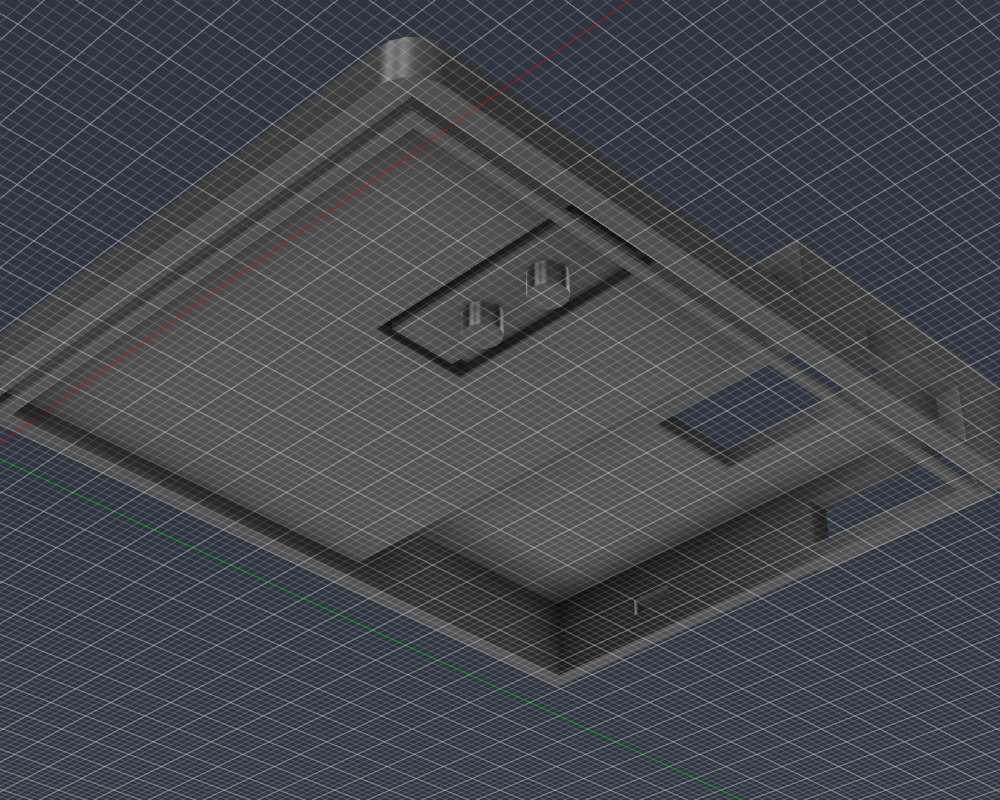
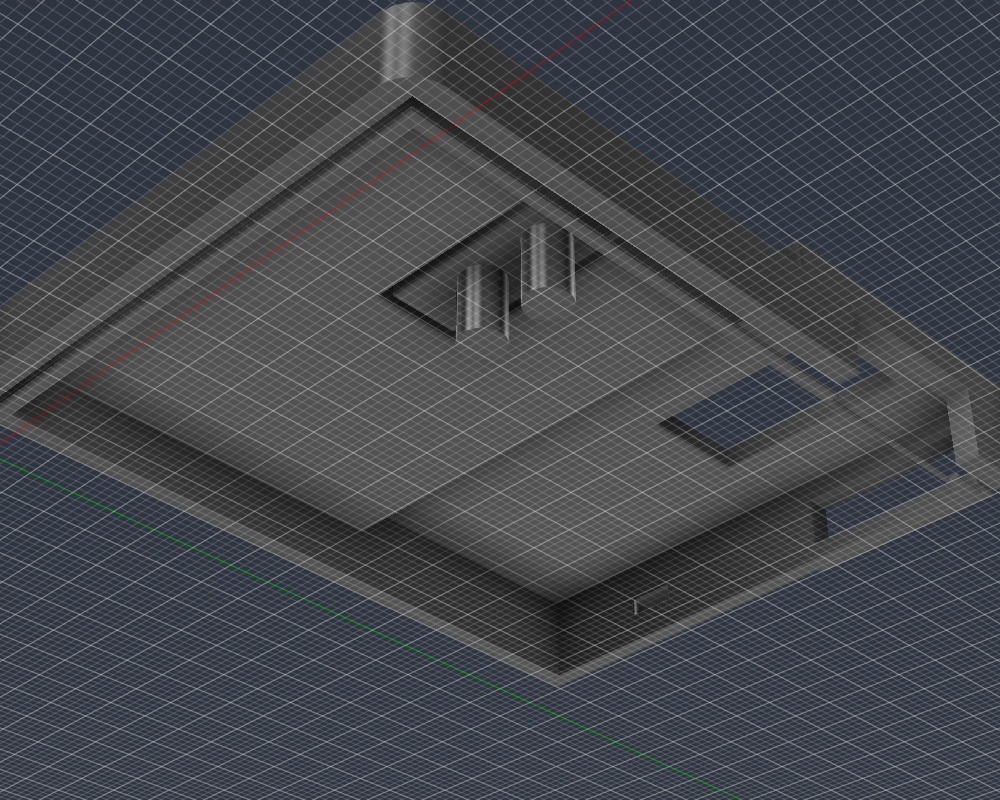
feat(fusion): 外壳完成 —— 间隙检查通过、两个 STL 导出、渲染出图
# 按实测修正的真实碰撞

从 11.7MB STEP 里按 XY 分格取 Z 极值，量出背面元件最高的是 470uF（Ø8x10.5），
正面最占空间的是 DC-005 桶形座（~12mm）。据此改：

    TRAY_Z0   -11.0 -> -13.5   底面要容下 470uF 的 10.5mm
    COVER_LO_Z  8.0 ->  12.0   低区顶面要容下 DC 座的 12mm
    COVER_LO_TOP 10.5 -> 14.5
    BUMP_H      2.6 ->  7.5    凸起要够到 Z~4.2 的按键顶面
    传感器窗口 Z 6.5..13.5 -> 2.0..14.0

# 修掉一个真错误：DC5521 孔的方向

原来用 cut_circle（草图画在 XY 平面）-> 孔轴是 **Z** 方向，实测只在外壁留一条竖线。
桶形座要沿 **-Y 穿墙**，改为在 **XZ 平面**画圆、沿 Y 切（新增 cut_circle_y）。
修正后托盘体积 22.611 -> 22.516 cm3，确实挖掉了料。

# 间隙检查（fusion/meshtastic-station/fit_check.py，纯几何，可复跑）

把内腔当盒子、模块当盒子逐条比。13 项中 12 项完全 OK；唯一一项：

    GY-BMP280 右侧越界 0.62mm  <- 正是用户说的"探出板子"
    右侧壁窗口 (Y 56..76, Z 2..14) 正好让开

其余：Pico/两按键 5.1、OLED 14.0、GPS 11.0、DC 座 12.0 都在各自可用高度内；
背面 E22/BMI160/PCF8563/MP2482/470uF 最深 -10.5，在 -11.0 底面之上。

# 交付

    MeshCase_Tray.stl   19 KB   22.516 cm3 / 27.9 g   66 x 86 x 19.5
    MeshCase_Cover.stl  28 KB   18.900 cm3 / 23.4 g   66 x 86 x 12
    渲染图 10 张          fusion/meshtastic-station/shots/

合盖方式：前盖带 1.5mm 止口，压入托盘（无螺丝）。

# 仍是估计值、需要试打验证的

* 两个按键的间距（按 Waveshare 官方尺寸图读的，±1mm）
* 各模块的实际高度（按标准模块尺寸取，DC 座恰好等于可用高度，建议先打一件试配）
* 三个连接器都朝 -Y 开口（按用户描述）

diff --git a/fusion/meshtastic-station/fit_check.py b/fusion/meshtastic-station/fit_check.py
@@ -1,0 +1,114 @@
+# -*- coding: utf-8 -*-
+"""
+外壳 vs PCB 的间隙检查（纯几何，不依赖 Fusion）
+
+    python fusion/meshtastic-station/fit_check.py
+
+把外壳的内腔当成一组盒子，把 PCB 上的模块当成盒子，逐条比较。
+元件外形按标准模块尺寸取值（见下），偏保守——留余量的方向是"宁可报冲突"。
+
+外壳内腔（与 enclosure.py 的参数一致）
+    托盘   X -0.25..60.25   Y -0.25..80.25   Z -11.0 .. 6.0
+    前盖低区（Y<48）                          Z  6.0 .. 12.0
+    前盖高区（Y>=48）                         Z  6.0 .. 15.5
+"""
+
+BOARD_W, BOARD_D, BOARD_T = 60.0, 80.0, 1.6
+FIT = 0.25
+TRAY_FLOOR_Z = -11.0
+SEAM = 6.0
+LO_Z = 12.0
+HI_Z = 15.5
+STEP_Y = 48.0
+
+CAV = {
+    "x": (-FIT, BOARD_W + FIT),
+    "y": (-FIT, BOARD_D + FIT),
+    "tray_z": (TRAY_FLOOR_Z, SEAM),
+    "lo_z": (SEAM, LO_Z),
+    "hi_z": (SEAM, HI_Z),
+}
+
+# 元件盒：名称, x0, y0, x1, y1, z0, z1, 备注
+COMPONENTS = [
+    # ---- 正面（Z+，ESP32 这一面）----
+    ("ESP32-S3-Pico",      35.73,  0.52, 56.73, 51.52,  1.6,  5.1, "51x21 邮票孔模块"),
+    ("Pico-BOOT",          38.98, 22.70, 44.98, 28.70,  1.6,  4.2, "6x6 轻触开关"),
+    ("Pico-RESET",         47.48, 22.70, 53.48, 28.70,  1.6,  4.2, "6x6 轻触开关"),
+    ("OLED-0.96",          32.43, 51.56, 59.53, 79.36,  1.6, 14.0, "27.3x27.8 + 8.5 排针座"),
+    ("ATGM336H-GPS",       22.08, 54.94, 47.08, 79.94,  1.6, 11.0, "25x25 模块"),
+    ("GY-BMP280",          45.62, 60.65, 60.62, 71.65,  1.6, 11.0, "15x11，会探出板右侧"),
+    ("DC-005-A200",        13.57,  6.03, 27.57, 15.03,  1.6, 12.0, "桶形电源座 14.2x9x11"),
+    ("PDC004-PD",           0.99,  6.76, 12.99, 29.76,  1.6,  5.5, "23x12，USB-C 座朝 -Y"),
+    # ---- 背面（Z-）----
+    ("E22-900M33S",         2.24, 44.77, 28.24, 70.77, -4.0,  0.0, "26x26 射频模块"),
+    ("GY-BMI160",          37.26, 61.54, 52.26, 72.54, -4.0,  0.0, "15x11"),
+    ("PCF8563-HW-689",     34.11, 46.41, 59.11, 61.41, -5.0,  0.0, "25x15"),
+    ("MP2482-DCDC",         5.50,  8.00, 25.50, 23.00, -10.0, 0.0, "成品降压小板"),
+    ("C-470uF",            28.39, 32.05, 36.39, 40.05, -10.5, 0.0, "Ø8x10.5 电解"),
+]
+
+OPENINGS = [
+    ("PD-USB-C",   6.99, 10.0,  1.2,  5.0),
+    ("DC5521",    20.57,  9.0,  2.2,  4.2),   # Ø9 圆孔，中心 Z=3.2
+    ("Pico-USB-C", 46.23, 10.5, 1.2,  4.8),
+]
+
+
+def overlap(a, b):
+    return (min(a[1], b[1]) - max(a[0], b[0]))
+
+
+def main():
+    problems = []
+    print("板 %.0f x %.0f x %.1f mm" % (BOARD_W, BOARD_D, BOARD_T))
+    print("=" * 78)
+    for (name, x0, y0, x1, y1, z0, z1, note) in COMPONENTS:
+        # 1) 是否在内腔 XY 范围内
+        dx_lo = x0 - CAV["x"][0]
+        dx_hi = CAV["x"][1] - x1
+        dy_lo = y0 - CAV["y"][0]
+        dy_hi = CAV["y"][1] - y1
+        # 2) Z 方向是否够
+        if z0 < 0:                      # 背面元件
+            z_ok = z0 >= CAV["tray_z"][0]
+            z_head = "托盘底 %.1f (需 <= %.1f)" % (z0, CAV["tray_z"][0])
+        else:                            # 正面元件
+            ceil = HI_Z if y0 >= STEP_Y - 1.0 else LO_Z
+            z_ok = z1 <= ceil
+            z_head = "顶面 %.1f (可用 %.1f)" % (z1, ceil)
+        flags = []
+        if dx_lo < 0:
+            flags.append("左侧越界 %.2f" % dx_lo)
+        if dx_hi < 0:
+            flags.append("右侧越界 %.2f" % dx_hi)
+        if dy_lo < 0:
+            flags.append("下侧越界 %.2f" % dy_lo)
+        if dy_hi < 0:
+            flags.append("上侧越界 %.2f" % dy_hi)
+        if not z_ok:
+            flags.append("Z 冲突")
+        state = "OK " if not flags else "!! "
+        print("%s%-16s %-22s x[%6.1f,%6.1f] y[%6.1f,%6.1f] %s"
+              % (state, name, note, x0, x1, y0, y1, z_head))
+        if flags:
+            print("      -> " + "; ".join(flags))
+            problems.append((name, flags))
+
+    print("=" * 78)
+    print("底壁开孔对位（开的孔中心 X vs 元件中心 X）")
+    for (name, cx, w, z0, z1) in OPENINGS:
+        print("   %-12s 孔 X=%.2f 宽 %.1f  Z %.1f..%.1f" % (name, cx, w, z0, z1))
+
+    print("=" * 78)
+    if problems:
+        print("发现 %d 处需要处理：" % len(problems))
+        for name, flags in problems:
+            print("   %-16s %s" % (name, "; ".join(flags)))
+    else:
+        print("全部通过：所有元件都在内腔之内，且 Z 向都有余量。")
+    return problems
+
+
+if __name__ == "__main__":
+    main()

diff --git a/fusion/meshtastic-station/export_stl.py b/fusion/meshtastic-station/export_stl.py
@@ -1,0 +1,98 @@
+# -*- coding: utf-8 -*-
+"""
+导出外壳两个件的 STL 并重出渲染图。
+
+    python fusion/bridge_client.py exec --file fusion/meshtastic-station/export_stl.py --timeout 900
+
+产出到仓库根 exports/（已 gitignore）
+"""
+
+import os
+import time
+
+EXPORT_DIR = r"C:\Users\WANGZ\Documents\GitHub\dsh-app\exports"
+SHOT_DIR = r"C:\Users\WANGZ\Documents\GitHub\dsh-app\fusion\meshtastic-station\shots"
+for d in (EXPORT_DIR, SHOT_DIR):
+    os.makedirs(d, exist_ok=True)
+
+JOBS = [
+    ("MeshCase_Tray", "MeshCase_Tray.stl"),
+    ("MeshCase_Cover", "MeshCase_Cover.stl"),
+]
+
+report = {"exports": [], "shots": [], "errors": []}
+
+
+def find_doc(name):
+    for i in range(app.documents.count):
+        d = app.documents.item(i)
+        if d.name == name or d.name.startswith(name + " "):
+            return d
+    return None
+
+
+for doc_name, filename in JOBS:
+    doc = find_doc(doc_name)
+    if doc is None:
+        report["errors"].append(doc_name + " not open")
+        continue
+    doc.activate()
+    # ⚠ activate() 是延迟的，不等就会导到上一个文档
+    for _ in range(30):
+        adsk.doEvents()
+        time.sleep(0.2)
+    if not app.activeDocument.name.startswith(doc_name):
+        report["errors"].append("activate 失败: %s" % app.activeDocument.name)
+        continue
+    design = adsk.fusion.Design.cast(doc.products.itemByProductType("DesignProductType"))
+    root = design.rootComponent
+    root.isConstructionFolderLightBulbOn = False
+    root.isSketchFolderLightBulbOn = False
+    root.isOriginFolderLightBulbOn = False
+    out = os.path.join(EXPORT_DIR, filename)
+    if os.path.exists(out):
+        os.remove(out)
+    opts = design.exportManager.createSTLExportOptions(root, out)
+    try:
+        opts.meshRefinement = adsk.core.MeshRefinementSettings.MeshRefinementHigh
+    except Exception:
+        pass
+    opts.isBinary = True
+    design.exportManager.execute(opts)
+    for _ in range(120):
+        adsk.doEvents()
+        time.sleep(0.2)
+        if os.path.exists(out) and os.path.getsize(out) > 0:
+            break
+    body = root.bRepBodies.item(0)
+    report["exports"].append({
+        "document": doc.name,
+        "file": filename,
+        "KB": os.path.getsize(out) // 1024 if os.path.exists(out) else 0,
+        "volume_cm3": round(body.volume, 3),
+        "mass_g_PLA": round(body.volume * 1.24, 1),
+    })
+    # 渲染
+    vp = app.activeViewport
+    for tag, orient, persp in (("iso", adsk.core.ViewOrientations.IsoTopLeftViewOrientation, True),
+                               ("iso2", adsk.core.ViewOrientations.IsoBottomRightViewOrientation, True),
+                               ("bottom", adsk.core.ViewOrientations.BottomViewOrientation, False)):
+        c = vp.camera
+        c.viewOrientation = orient
+        c.cameraType = (adsk.core.CameraTypes.PerspectiveCameraType if persp
+                        else adsk.core.CameraTypes.OrthographicCameraType)
+        c.isFitView = True
+        vp.camera = c
+        vp.visualStyle = adsk.core.VisualStyles.ShadedVisualStyle
+        vp.refresh()
+        adsk.doEvents()
+        time.sleep(0.7)
+        adsk.doEvents()
+        path = os.path.join(SHOT_DIR, "%s_%s.png" % (doc_name, tag))
+        if os.path.exists(path):
+            os.remove(path)
+        vp.saveAsImageFile(path, 1000, 800)
+        report["shots"].append({"doc": doc_name, "view": tag,
+                                "bytes": os.path.getsize(path) if os.path.exists(path) else 0})
+
+result = report

diff --git a/fusion/meshtastic-station/enclosure.py b/fusion/meshtastic-station/enclosure.py
@@ -40,12 +40,12 @@ WALL = 3.0
 FIT = 0.25                 # 板与内腔单边间隙
 LEDGE = 1.5                # 承板台阶宽
 
-TRAY_Z0, TRAY_Z1 = -11.0, 6.0    # 托盘：底面 -> 接缝
+TRAY_Z0, TRAY_Z1 = -13.5, 6.0    # 托盘：底面 -> 接缝（底面要容下背面 470uF 的 10.5mm）
 FLOOR = 2.5
 SEAM = TRAY_Z1
 
-COVER_LO_Z = 8.0            # 低区（按键上方）内顶面
-COVER_LO_TOP = 10.5         # 低区外顶面
+COVER_LO_Z = 12.0           # 低区（按键上方）内顶面（要容下 DC 座的 ~12mm）
+COVER_LO_TOP = 14.5         # 低区外顶面
 COVER_HI_Z = 15.5           # 高区（OLED/GPS）内顶面
 COVER_HI_TOP = 18.0         # 高区外顶面
 STEP_Y = 48.0               # 低/高区分界
@@ -61,9 +61,9 @@ BTN_X, BTN_Y, BTN_DX = 46.23, 25.7, 4.25
 PLATE_W, PLATE_H = 24.0, 9.0
 SLOT_W = 1.0
 HINGE_T = 1.3
-BUMP_R, BUMP_H = 2.0, 2.6
+BUMP_R, BUMP_H = 2.5, 7.5      # 凸起要够到 Z~4.2 的按键顶面
 
-SENSOR_Y0, SENSOR_Y1, SENSOR_Z0, SENSOR_Z1 = 58.0, 74.0, 6.5, 13.5
+SENSOR_Y0, SENSOR_Y1, SENSOR_Z0, SENSOR_Z1 = 56.0, 76.0, 2.0, 14.0  # GY-BMP280 会探出板右侧
 
 SMA_X, SMA_Z, SMA_D = 15.0, 10.0, 6.0
 GPS_X0, GPS_X1, GPS_Z0, GPS_Z1 = 39.0, 59.0, 7.0, 13.0
@@ -247,6 +247,27 @@ def join_circle(root, cx, cy, d, z_lo, z_hi, name):
                  adsk.fusion.FeatureOperations.JoinFeatureOperation, name)
 
 
+def cut_circle_y(root, cx, cz, d, y_lo, y_hi, name):
+    """沿 **Y** 方向切圆孔（草图画在 XZ 平面）。
+
+    ⚠ 桶形电源座、USB-C 这类**从侧壁穿出去**的孔，草图必须画在 XZ 平面上；
+       画在 XY 平面上会变成沿 Z 的孔（实测只在外壁上留一条竖线）。
+    """
+    sk = root.sketches.add(root.xZConstructionPlane)
+    sk.name = name + "_sk"
+    sk.sketchCurves.sketchCircles.addByCenterRadius(
+        sk.modelToSketchSpace(P(cx, 0.0, cz)), d / 2.0 * MM)
+    if sk.profiles.count < 1:
+        raise RuntimeError("%s: 圆未闭合" % name)
+    ext = root.features.extrudeFeatures
+    ei = ext.createInput(sk.profiles.item(0), adsk.fusion.FeatureOperations.CutFeatureOperation)
+    ei.setTwoSidesDistanceExtent(V(y_hi), V(-y_lo))
+    f = ext.add(ei)
+    f.name = name
+    sk.isVisible = False
+    return f
+
+
 def info(root, key):
     b = root.bRepBodies.item(0)
     bb = b.boundingBox
@@ -280,7 +301,7 @@ def build_tray():
 
     wy0, wy1 = oy0 - 1.0, cy0 + 0.5
     cut_rect(root, PD_X - PD_W / 2, wy0, PD_X + PD_W / 2, wy1, PD_Z0, PD_Z1, "cut_pd")
-    cut_circle(root, DC_X, (wy0 + wy1) / 2.0, DC_D, DC_ZC - 1.0, DC_ZC + 1.0, "cut_dc")
+    cut_circle_y(root, DC_X, DC_ZC, DC_D, wy0, wy1, "cut_dc")   # 桶形座沿 -Y 穿墙
     cut_rect(root, PICO_X - PICO_W / 2, wy0, PICO_X + PICO_W / 2, wy1,
              PICO_Z0, PICO_Z1, "cut_pico")
     step("底壁三孔: %.3f cm3" % root.bRepBodies.item(0).volume)
